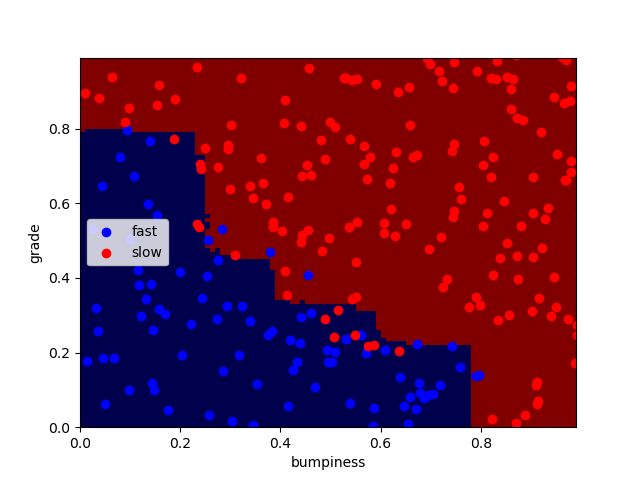
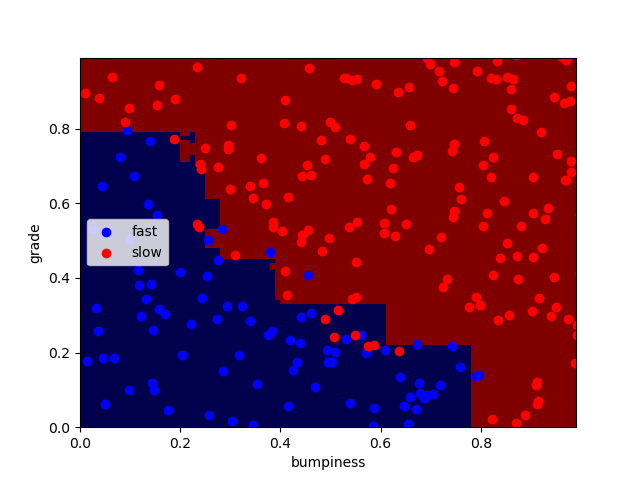
Finished choose_your_own

diff --git a/machine_learning/udacity/choose_your_own/.ipynb_checkpoints/your_algorithm-checkpoint.py b/machine_learning/udacity/choose_your_own/.ipynb_checkpoints/your_algorithm-checkpoint.py
@@ -34,9 +34,17 @@ plt.show()
 from sklearn.ensemble import RandomForestClassifier
 from sklearn.metrics import accuracy_score
 
-clf = RandomForestClassifier(n_estimators=500, 
-                             max_leaf_nodes=16,
-                             n_jobs=-1)
+params = {'bootstrap': False,
+ 'criterion': 'entropy',
+ 'max_depth': 7,
+ 'max_features': 'auto',
+ 'max_leaf_nodes': 16,
+ 'n_estimators': 200,
+ 'n_jobs': -1,
+ 'oob_score': False}
+
+
+clf = RandomForestClassifier(**params)
 
 clf.fit(features_train, labels_train)
 

diff --git a/machine_learning/udacity/choose_your_own/your_algorithm.py b/machine_learning/udacity/choose_your_own/your_algorithm.py
@@ -34,9 +34,17 @@ plt.show()
 from sklearn.ensemble import RandomForestClassifier
 from sklearn.metrics import accuracy_score
 
-clf = RandomForestClassifier(n_estimators=500, 
-                             max_leaf_nodes=16,
-                             n_jobs=-1)
+params = {'bootstrap': False,
+ 'criterion': 'entropy',
+ 'max_depth': 7,
+ 'max_features': 'auto',
+ 'max_leaf_nodes': 16,
+ 'n_estimators': 200,
+ 'n_jobs': -1,
+ 'oob_score': False}
+
+
+clf = RandomForestClassifier(**params)
 
 clf.fit(features_train, labels_train)
 
